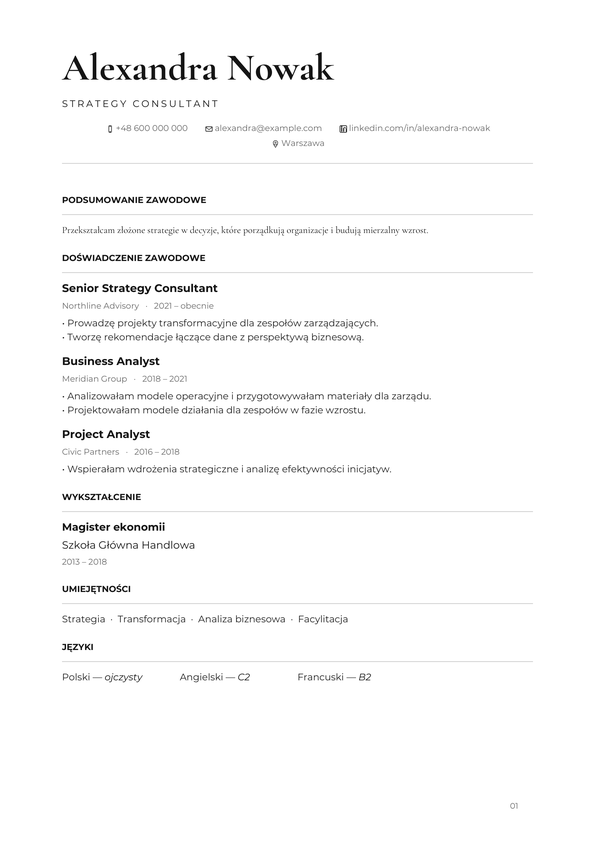
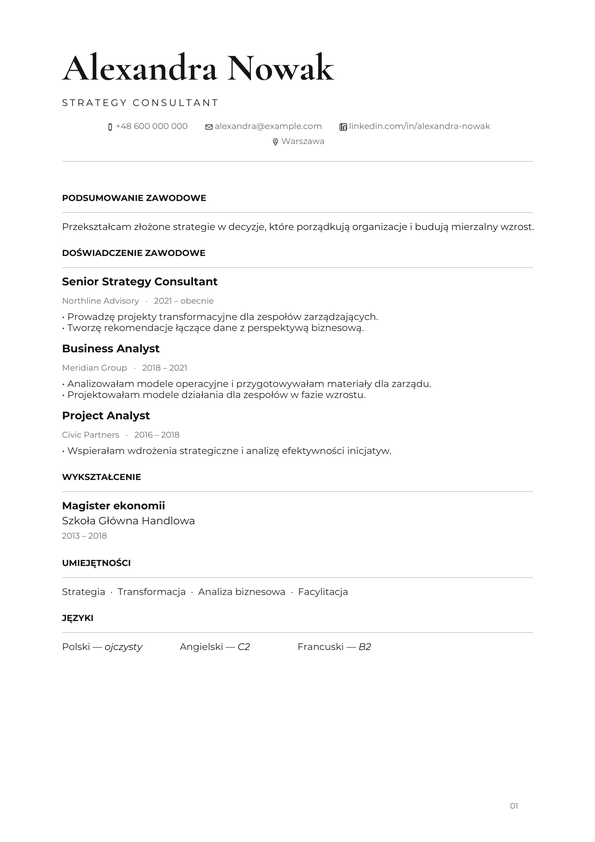
monserrat

diff --git a/frontend/src/templates/regent.test.js b/frontend/src/templates/regent.test.js
@@ -20,12 +20,13 @@ test("Regent preserves its monochrome editorial hierarchy", () => {
         (element) =>
             element.category === "textarea"
             && element.fontSize === 9.5
-            && element.fontFamily === "CormorantGaramond",
+            && element.fontFamily === "Montserrat"
+            && element.flowRole === "content",
     );
     assert.ok(summary);
     assert.equal(summary.fontSize, 9.5);
     assert.equal(summary.lineHeight, 11);
-    assert.equal(summary.fontFamily, "CormorantGaramond");
+    assert.equal(summary.fontFamily, "Montserrat");
     assert.equal(summary.color, INK);
     assert.equal(summary.left, L);
     assert.equal(summary.width, W);

diff --git a/frontend/src/templates/regent.js b/frontend/src/templates/regent.js
@@ -1,7 +1,7 @@
 /**
  * Regent template (`layouts: ["single", "icons"]`).
  *
- * Monochrome executive editorial layout with compact serif summary copy.
+ * Monochrome executive editorial layout with compact Montserrat summary copy.
  *
  * This static starter is the backend generator's own output
  * (`backend/app/services/cv_templates/templates/regent.py`) for
@@ -346,7 +346,7 @@ const REGENT_ELEMENTS = [
     "lineHeight": 11,
     "letterSpacing": 0,
     "color": "#151515",
-    "fontFamily": "CormorantGaramond",
+    "fontFamily": "Montserrat",
     "zIndex": 2,
     "page": 1,
     "bold": false,

diff --git a/frontend/src/templates/meridian.js b/frontend/src/templates/meridian.js
@@ -1,7 +1,7 @@
 /**
  * Meridian template (`layouts: ["single", "icons"]`).
  *
- * Premium navy/steel-blue single column with a compact serif summary
+ * Premium navy/steel-blue single column with a compact Montserrat summary
  * and an accent-blue tick under every section rule.
  *
  * This static starter is the backend generator's own output
@@ -358,7 +358,7 @@ const MERIDIAN_ELEMENTS = [
     "lineHeight": 11.0,
     "letterSpacing": 0,
     "color": "#1B2A41",
-    "fontFamily": "CormorantGaramond",
+    "fontFamily": "Montserrat",
     "zIndex": 2,
     "page": 1,
     "bold": false,

diff --git a/backend/app/services/cv_templates/templates/regent.py b/backend/app/services/cv_templates/templates/regent.py
@@ -1,10 +1,10 @@
 """Regent CV template generator.
 
 Regent is a monochrome executive resume built around a high-contrast serif
-masthead and a deliberately oversized professional summary. The summary is a
-typographic statement rather than a dense utility paragraph; the remaining
-sections use restrained sans-serif type, fine rules, and a generous single
-column to keep the document appropriate for applicant-tracking systems.
+masthead. The professional summary uses the same Montserrat face as record
+copy so the lead paragraph reads as body text, not a second display block;
+the remaining sections keep restrained sans-serif type, fine rules, and a
+generous single column appropriate for applicant-tracking systems.
 """
 from __future__ import annotations
 
@@ -145,17 +145,17 @@ def _gen_regent(cv: dict) -> list[dict]:
     def close_section() -> None:
         b.gap(get_spacing().section)
 
-    # Keep summary metrics identical to record copy. This avoids an oversized
-    # lead consuming page space or creating unstable browser reflow for
-    # multi-sentence imported summaries.
+    # Keep summary metrics and face identical to record copy. A serif lead
+    # at this size looked like a second masthead and wrapped differently
+    # from the Montserrat body below it.
     summary_fs, summary_lh = 9.5, 11
     if cv.get("summary"):
         b.need_section(
             section_chrome_h,
-            b.measure_block(cv["summary"], W, summary_fs, summary_lh, DISPLAY),
+            b.measure_block(cv["summary"], W, summary_fs, summary_lh, SANS),
         )
         section(labels["summary"])
-        b.block(cv["summary"], L, W, summary_fs, summary_lh, C["ink"], DISPLAY)
+        b.block(cv["summary"], L, W, summary_fs, summary_lh, C["ink"], SANS)
         close_section()
 
     # All requested content textareas — professional summary, job and degree

diff --git a/backend/app/services/cv_templates/templates/meridian.py b/backend/app/services/cv_templates/templates/meridian.py
@@ -396,16 +396,17 @@ def _gen_meridian(cv: dict) -> list[dict]:
     def close_section() -> None:
         b.gap(get_spacing().section)
 
-    # Meridian's body scale sits a full step below Regent's (9.5/14) so denser
-    # CVs still read as a restrained, premium single page.
+    # Meridian's body scale sits a full step below Regent's (9.5/11) so denser
+    # CVs still read as a restrained, premium single page. Summary uses the
+    # same Montserrat face as record copy so the lead is not a second display block.
     summary_fs, summary_lh = 8.6, 11.0
     if cv.get("summary"):
         b.need_section(
             section_chrome_h,
-            b.measure_block(cv["summary"], W, summary_fs, summary_lh, DISPLAY),
+            b.measure_block(cv["summary"], W, summary_fs, summary_lh, SANS),
         )
         section(labels["summary"])
-        b.block(cv["summary"], L, W, summary_fs, summary_lh, C["ink"], DISPLAY)
+        b.block(cv["summary"], L, W, summary_fs, summary_lh, C["ink"], SANS)
         close_section()
 
     body_fs, body_lh = 8.6, 11.0

diff --git a/scripts/regenerate_template_starters.py b/scripts/regenerate_template_starters.py
@@ -250,7 +250,7 @@ DOC_BLURBS = {
     "regent": (
         "Regent template (`layouts: [\"single\", \"icons\"]`).\n"
         " *\n"
-        " * Monochrome executive editorial layout with compact serif summary copy."
+        " * Monochrome executive editorial layout with compact Montserrat summary copy."
     ),
     "vestige": (
         "Vestige template (`layouts: [\"sidebar\", \"icons\"]`).\n"
@@ -260,7 +260,7 @@ DOC_BLURBS = {
     "meridian": (
         "Meridian template (`layouts: [\"single\", \"icons\"]`).\n"
         " *\n"
-        " * Premium navy/steel-blue single column with a compact serif summary\n"
+        " * Premium navy/steel-blue single column with a compact Montserrat summary\n"
         " * and an accent-blue tick under every section rule."
     ),
 }

diff --git a/backend/tests/test_regent_template.py b/backend/tests/test_regent_template.py
@@ -33,7 +33,7 @@ class RegentTemplateTests(unittest.TestCase):
         summary = next(element for element in elements if element.get("content") == "Łączę strategię, analizę i jasne decyzje.")
         self.assertEqual(summary["fontSize"], 9.5)
         self.assertEqual(summary["lineHeight"], 11)
-        self.assertEqual(summary["fontFamily"], "CormorantGaramond")
+        self.assertEqual(summary["fontFamily"], "Montserrat")
         self.assertEqual(summary["color"], "#151515")
 
         icons = [element for element in elements if element["category"] == "image"]

diff --git a/backend/tests/test_meridian_template.py b/backend/tests/test_meridian_template.py
@@ -35,7 +35,7 @@ class MeridianTemplateTests(unittest.TestCase):
         # the "even smaller paragraphs than Regent" design requirement.
         self.assertEqual(summary["fontSize"], 8.6)
         self.assertEqual(summary["lineHeight"], 11.0)
-        self.assertEqual(summary["fontFamily"], "CormorantGaramond")
+        self.assertEqual(summary["fontFamily"], "Montserrat")
         self.assertEqual(summary["color"], "#1B2A41")
 
         icons = [element for element in elements if element["category"] == "image"]

diff --git a/README.md b/README.md
@@ -753,7 +753,7 @@ Tests:
 
 ### Monument monochrome template
 
-Monument is a paid Classic template for users who want an elegant editorial result without colour. Its visual identity comes from numbered black rectangles, outlined heading frames, thin grey rules, and an asymmetric masthead. The smallest text is 9 px; body copy and the summary both use 9 px so the lead paragraph does not sit one step above surrounding text, record titles use 11 px, education titles use 10 px, and section headings plus the job-position line use 12.5 px. Cormorant Garamond supplies the formal display voice, while Montserrat keeps dense CV content easy to scan. Regent also keeps its summary at the body-copy scale, while differentiating it through the display typeface.
+Monument is a paid Classic template for users who want an elegant editorial result without colour. Its visual identity comes from numbered black rectangles, outlined heading frames, thin grey rules, and an asymmetric masthead. The smallest text is 9 px; body copy and the summary both use 9 px so the lead paragraph does not sit one step above surrounding text, record titles use 11 px, education titles use 10 px, and section headings plus the job-position line use 12.5 px. Cormorant Garamond supplies the formal display voice, while Montserrat keeps dense CV content easy to scan. Regent also keeps its summary at the body-copy scale and in the same Montserrat face as record copy.
 
 The frontend starter array and the deterministic Python generator use the same A4 geometry and grayscale palette. `_gen_monument` preserves complete experience and education records during page breaks, supports custom sections through `_extra_sections`, and groups each number, frame, label, and rule into one reflow unit so the heading geometry remains aligned after browser text measurement. The page frame and footer repeat on every page, while the name-and-position masthead and its tall side bars appear only on page one; `repeatOnContinuation: false` preserves this rule when the editor creates another page later. Layout decisions are never sent to the AI model.
 
@@ -785,7 +785,7 @@ Known limitation: long user-provided section names are shortened only inside the
 
 Regent is a paid monochrome single-column template (`layouts: ["single", "icons"]`) for executives and consultants. It uses only white, charcoal, and neutral grey. A 38 px Cormorant Garamond name establishes the masthead, a widely tracked Montserrat role line keeps the hierarchy disciplined, and a centered band of small phone, email, LinkedIn, and location icons remains understated.
 
-Its defining choice is a 9.5 px Cormorant Garamond professional summary with an 11 px line height, matching the compact 11 px leading used by job and degree lines, record descriptions, education copy, skills, and languages while using a contrasting display typeface. Only the smaller metadata rows keep their own line metric. This keeps imported multi-sentence summaries compact and lets experience, education, skills, and languages share an A4 page. Each section has a letter-spaced uppercase label and a 0.8 px grey hairline. The deterministic Python generator preserves these metrics for imported and user-authored CVs.
+Its defining choice is a 9.5 px Montserrat professional summary with an 11 px line height, matching the compact 11 px leading and face used by job and degree lines, record descriptions, education copy, skills, and languages. The serif display face stays on the masthead name. Only the smaller metadata rows keep their own line metric. This keeps imported multi-sentence summaries compact and lets experience, education, skills, and languages share an A4 page. Each section has a letter-spaced uppercase label and a 0.8 px grey hairline. The deterministic Python generator preserves these metrics for imported and user-authored CVs.
 
 Implementation:
 
@@ -797,13 +797,13 @@ Implementation:
 Tests:
 
 - `frontend/src/templates/regent.test.js` — 9.5 px / 11 px textarea metrics, monochrome palette, contact icons, and five-section hierarchy
-- `backend/tests/test_regent_template.py` — registry metadata, oversized summary, and contact-icon generation
+- `backend/tests/test_regent_template.py` — registry metadata, Montserrat summary at body scale, and contact-icon generation
 
 ### Meridian premium navy/steel-blue template
 
 Meridian is a paid single-column template (`layouts: ["single", "icons"]`) in the same structural family as Regent — a 34 px Cormorant Garamond name, a tracked Montserrat role line, and a centered band of phone/email/LinkedIn/location icons — but built around a deep navy-slate and steel-blue palette (`#1B2A41` ink, `#3D5A80` accent, `#7A8699` muted, `#D7DEE6` hairlines) instead of Regent's monochrome ink, so it reads as an intentionally distinct, elegant option rather than a recolor.
 
-Its body type scale sits a full step below Regent's: the Cormorant Garamond summary, experience/education records, and skills copy all render at 8.6 px / 11 px line height (Regent: 9.5 px / 14 px), and the masthead's own cursor gaps (name→title, title→contact, contact→rule, rule→first section) are tightened rather than routed through the shared per-document spacing knob, so Meridian reads denser without affecting any other template's rhythm. Every section rule carries a short 18 px accent-blue tick — Meridian's signature mark, distinguishing its chrome from Regent's plain full-width hairline. Contact icons reuse Regent's neutral glyph set (`backend/template_assets/iconic/regent/`), since those glyphs are colorless silhouettes designed to sit under any ink color.
+Its body type scale sits a full step below Regent's: the Montserrat summary, experience/education records, and skills copy all render at 8.6 px / 11 px line height (Regent: 9.5 px / 11 px), and the masthead's own cursor gaps (name→title, title→contact, contact→rule, rule→first section) are tightened rather than routed through the shared per-document spacing knob, so Meridian reads denser without affecting any other template's rhythm. Every section rule carries a short 18 px accent-blue tick — Meridian's signature mark, distinguishing its chrome from Regent's plain full-width hairline. Contact icons reuse Regent's neutral glyph set (`backend/template_assets/iconic/regent/`), since those glyphs are colorless silhouettes designed to sit under any ink color.
 
 Experience and education records use a two-column layout, but — unlike an earlier revision that paired title+period and company+city as literal same-row blocks (which broke under the frontend's live textarea reflow, since that reflow assumes one flowing element per line in the left column) — the left column now flows normally (title/degree, company/school, bullets, one textarea per line, exactly like the shared `_place_experience_record` helper) while dates and location are pinned to a separate right-hand rail, stacked one above the other and never sharing a line with the left column. The rail elements carry `flowRole: "record-overlay"` and `autoHeight: False` — a general technique for pinning a decoration beside a real content line without it participating in vertical stacking — so they ride along with the record on reflow/pagination without colliding with it.
 
@@ -2593,7 +2593,7 @@ Testy:
 
 ### Monochromatyczny szablon Monument
 
-Monument to płatny jednokolumnowy szablon (`layouts: ["single"]`) dla osób, które chcą eleganckiego, redakcyjnego efektu bez koloru. Jego charakter budują numerowane czarne prostokąty, konturowe ramki nagłówków, cienkie szare linie i asymetryczny masthead. Najmniejszy tekst ma 9 px; treść główna i podsumowanie używają po 9 px, żeby akapit wstępny nie był o stopień większy od otaczającego tekstu, tytuły stanowisk mają 11 px, tytuły edukacji 10 px, a nagłówki sekcji i linia stanowiska przy nazwisku 12,5 px. Cormorant Garamond odpowiada za formalny charakter display, a Montserrat utrzymuje czytelność gęstej treści CV. Regent również utrzymuje podsumowanie na skali treści body, a różnicę buduje krojem display.
+Monument to płatny jednokolumnowy szablon (`layouts: ["single"]`) dla osób, które chcą eleganckiego, redakcyjnego efektu bez koloru. Jego charakter budują numerowane czarne prostokąty, konturowe ramki nagłówków, cienkie szare linie i asymetryczny masthead. Najmniejszy tekst ma 9 px; treść główna i podsumowanie używają po 9 px, żeby akapit wstępny nie był o stopień większy od otaczającego tekstu, tytuły stanowisk mają 11 px, tytuły edukacji 10 px, a nagłówki sekcji i linia stanowiska przy nazwisku 12,5 px. Cormorant Garamond odpowiada za formalny charakter display, a Montserrat utrzymuje czytelność gęstej treści CV. Regent również utrzymuje podsumowanie na skali treści body i w tym samym kroju Montserrat co rekordy.
 
 Startowa tablica frontendu oraz deterministyczny generator Python używają tej samej geometrii A4 i palety szarości. `_gen_monument` nie rozdziela wpisów doświadczenia ani edukacji przy zmianie strony, obsługuje sekcje własne przez `_extra_sections` i grupuje numer, ramkę, etykietę oraz linię jako jeden element reflow, dzięki czemu geometria nagłówka pozostaje równa po pomiarze tekstu w przeglądarce. Rama strony i stopka powtarzają się na każdej stronie, natomiast masthead z nazwiskiem i stanowiskiem oraz jego wysokie boczne belki występują wyłącznie na pierwszej stronie; `repeatOnContinuation: false` zachowuje tę regułę również wtedy, gdy edytor później utworzy kolejną stronę. Decyzje o layoucie nie są przekazywane do modelu AI.
 
@@ -2625,7 +2625,7 @@ Znane ograniczenie: długie nazwy sekcji podane przez użytkownika są skracane 
 
 Regent to płatny, monochromatyczny szablon jednokolumnowy (`layouts: ["single", "icons"]`) dla osób na stanowiskach executive i consultant. Używa wyłącznie bieli, grafitu oraz neutralnych szarości. Nazwisko w Cormorant Garamond o rozmiarze 38 px buduje masthead, rozstrzelona linia stanowiska w Montserrat utrzymuje dyscyplinę hierarchii, a wyśrodkowany pas drobnych ikon telefonu, e-maila, LinkedIn i lokalizacji pozostaje subtelny.
 
-Najważniejszym elementem Regenta jest podsumowanie zawodowe złożone krojem Cormorant Garamond o rozmiarze 9,5 px i interlinii 11 px, takiej samej jak zwarta interlinia 11 px linii stanowisk i dyplomów, opisów rekordów, treści wykształcenia, umiejętności i języków. Kontrastowy krój display odróżnia je typograficznie, a własne metryki zachowują tylko mniejsze wiersze metadanych. Kompaktowe metryki pozwalają zmieścić wielozdaniowe podsumowanie, doświadczenie, wykształcenie, umiejętności i języki na A4. Każda sekcja ma wersalikową etykietę z rozstrzeleniem oraz szarą linię 0,8 px. Deterministyczny generator Python zachowuje te metryki dla importowanego i edytowanego CV.
+Najważniejszym elementem Regenta jest podsumowanie zawodowe złożone krojem Montserrat o rozmiarze 9,5 px i interlinii 11 px, takiej samej jak zwarta interlinia i krój linii stanowisk i dyplomów, opisów rekordów, treści wykształcenia, umiejętności i języków. Szeryfowy krój display zostaje przy nazwisku w mastheadzie, a własne metryki zachowują tylko mniejsze wiersze metadanych. Kompaktowe metryki pozwalają zmieścić wielozdaniowe podsumowanie, doświadczenie, wykształcenie, umiejętności i języki na A4. Każda sekcja ma wersalikową etykietę z rozstrzeleniem oraz szarą linię 0,8 px. Deterministyczny generator Python zachowuje te metryki dla importowanego i edytowanego CV.
 
 Implementacja:
 
@@ -2636,14 +2636,14 @@ Implementacja:
 
 Testy:
 
-- `frontend/src/templates/regent.test.js` — metryki podsumowania 9,5 px / 14 px, monochromatyczna paleta, ikony kontaktu i hierarchia pięciu sekcji
-- `backend/tests/test_regent_template.py` — metadane rejestru, duże podsumowanie oraz generowanie ikon kontaktowych
+- `frontend/src/templates/regent.test.js` — metryki podsumowania 9,5 px / 11 px w Montserrat, monochromatyczna paleta, ikony kontaktu i hierarchia pięciu sekcji
+- `backend/tests/test_regent_template.py` — metadane rejestru, podsumowanie Montserrat w skali treści oraz generowanie ikon kontaktowych
 
 ### Meridian — premium, granatowo-niebieski szablon
 
 Meridian to płatny szablon jednokolumnowy (`layouts: ["single", "icons"]`) z tej samej rodziny strukturalnej co Regent — nazwisko w Cormorant Garamond 34 px, rozstrzelona linia stanowiska w Montserrat oraz wyśrodkowany pas ikon telefonu/e-maila/LinkedIn/lokalizacji — ale zbudowany wokół głębokiej, granatowo-szarej i stalowo-niebieskiej palety (`#1B2A41` — atrament, `#3D5A80` — akcent, `#7A8699` — kolor stonowany, `#D7DEE6` — linie) zamiast monochromatycznego atramentu Regenta, dzięki czemu jest odbierany jako celowo odrębna, elegancka opcja, a nie przebarwiony Regent.
 
-Skala typografii treści jest o cały stopień mniejsza niż w Regencie: podsumowanie w Cormorant Garamond, rekordy doświadczenia/wykształcenia oraz umiejętności renderują się przy 8,6 px / interlinii 11 px (Regent: 9,5 px / 14 px), a własne odstępy kursora w mastheadzie (nazwisko→stanowisko, stanowisko→kontakt, kontakt→linia, linia→pierwsza sekcja) są zwężone bezpośrednio w kodzie szablonu, a nie przez współdzielony, ogólnodokumentowy suwak odstępów, dzięki czemu Meridian jest gęstszy bez wpływu na rytm innych szablonów. Każda linia sekcji ma krótki, 18-pikselowy akcent w kolorze stalowego błękitu — sygnaturowy znak Meridiana, odróżniający jego chrome od zwykłej, pełnej szerokości linii Regenta. Ikony kontaktowe korzystają z neutralnego zestawu glifów Regenta (`backend/template_assets/iconic/regent/`), ponieważ są to bezbarwne sylwetki zaprojektowane tak, by pasowały do dowolnego koloru atramentu.
+Skala typografii treści jest o cały stopień mniejsza niż w Regencie: podsumowanie w Montserrat, rekordy doświadczenia/wykształcenia oraz umiejętności renderują się przy 8,6 px / interlinii 11 px (Regent: 9,5 px / 11 px), a własne odstępy kursora w mastheadzie (nazwisko→stanowisko, stanowisko→kontakt, kontakt→linia, linia→pierwsza sekcja) są zwężone bezpośrednio w kodzie szablonu, a nie przez współdzielony, ogólnodokumentowy suwak odstępów, dzięki czemu Meridian jest gęstszy bez wpływu na rytm innych szablonów. Każda linia sekcji ma krótki, 18-pikselowy akcent w kolorze stalowego błękitu — sygnaturowy znak Meridiana, odróżniający jego chrome od zwykłej, pełnej szerokości linii Regenta. Ikony kontaktowe korzystają z neutralnego zestawu glifów Regenta (`backend/template_assets/iconic/regent/`), ponieważ są to bezbarwne sylwetki zaprojektowane tak, by pasowały do dowolnego koloru atramentu.
 
 Rekordy doświadczenia i wykształcenia używają dwukolumnowego układu, ale — inaczej niż we wcześniejszej wersji, która łączyła stanowisko+okres oraz firmę+miasto jako dosłowne bloki w jednym wierszu (co psuło się przy żywym przepływie textarea we frontendzie, ponieważ ten mechanizm zakłada jeden płynący element na wiersz w lewej kolumnie) — lewa kolumna płynie teraz normalnie (stanowisko/kierunek, firma/uczelnia, punktory — jedna textarea na wiersz, dokładnie jak we współdzielonym helperze `_place_experience_record`), a data i lokalizacja są przypięte do osobnego prawego pasa, ułożone jedna nad drugą i nigdy niedzielące wiersza z lewą kolumną. Elementy pasa mają `flowRole: "record-overlay"` i `autoHeight: False` — ogólną technikę przypinania dekoracji obok prawdziwej linii treści bez udziału w pionowym układaniu — dzięki czemu podążają za rekordem przy przepływie/paginacji bez kolidowania z nim.
 
